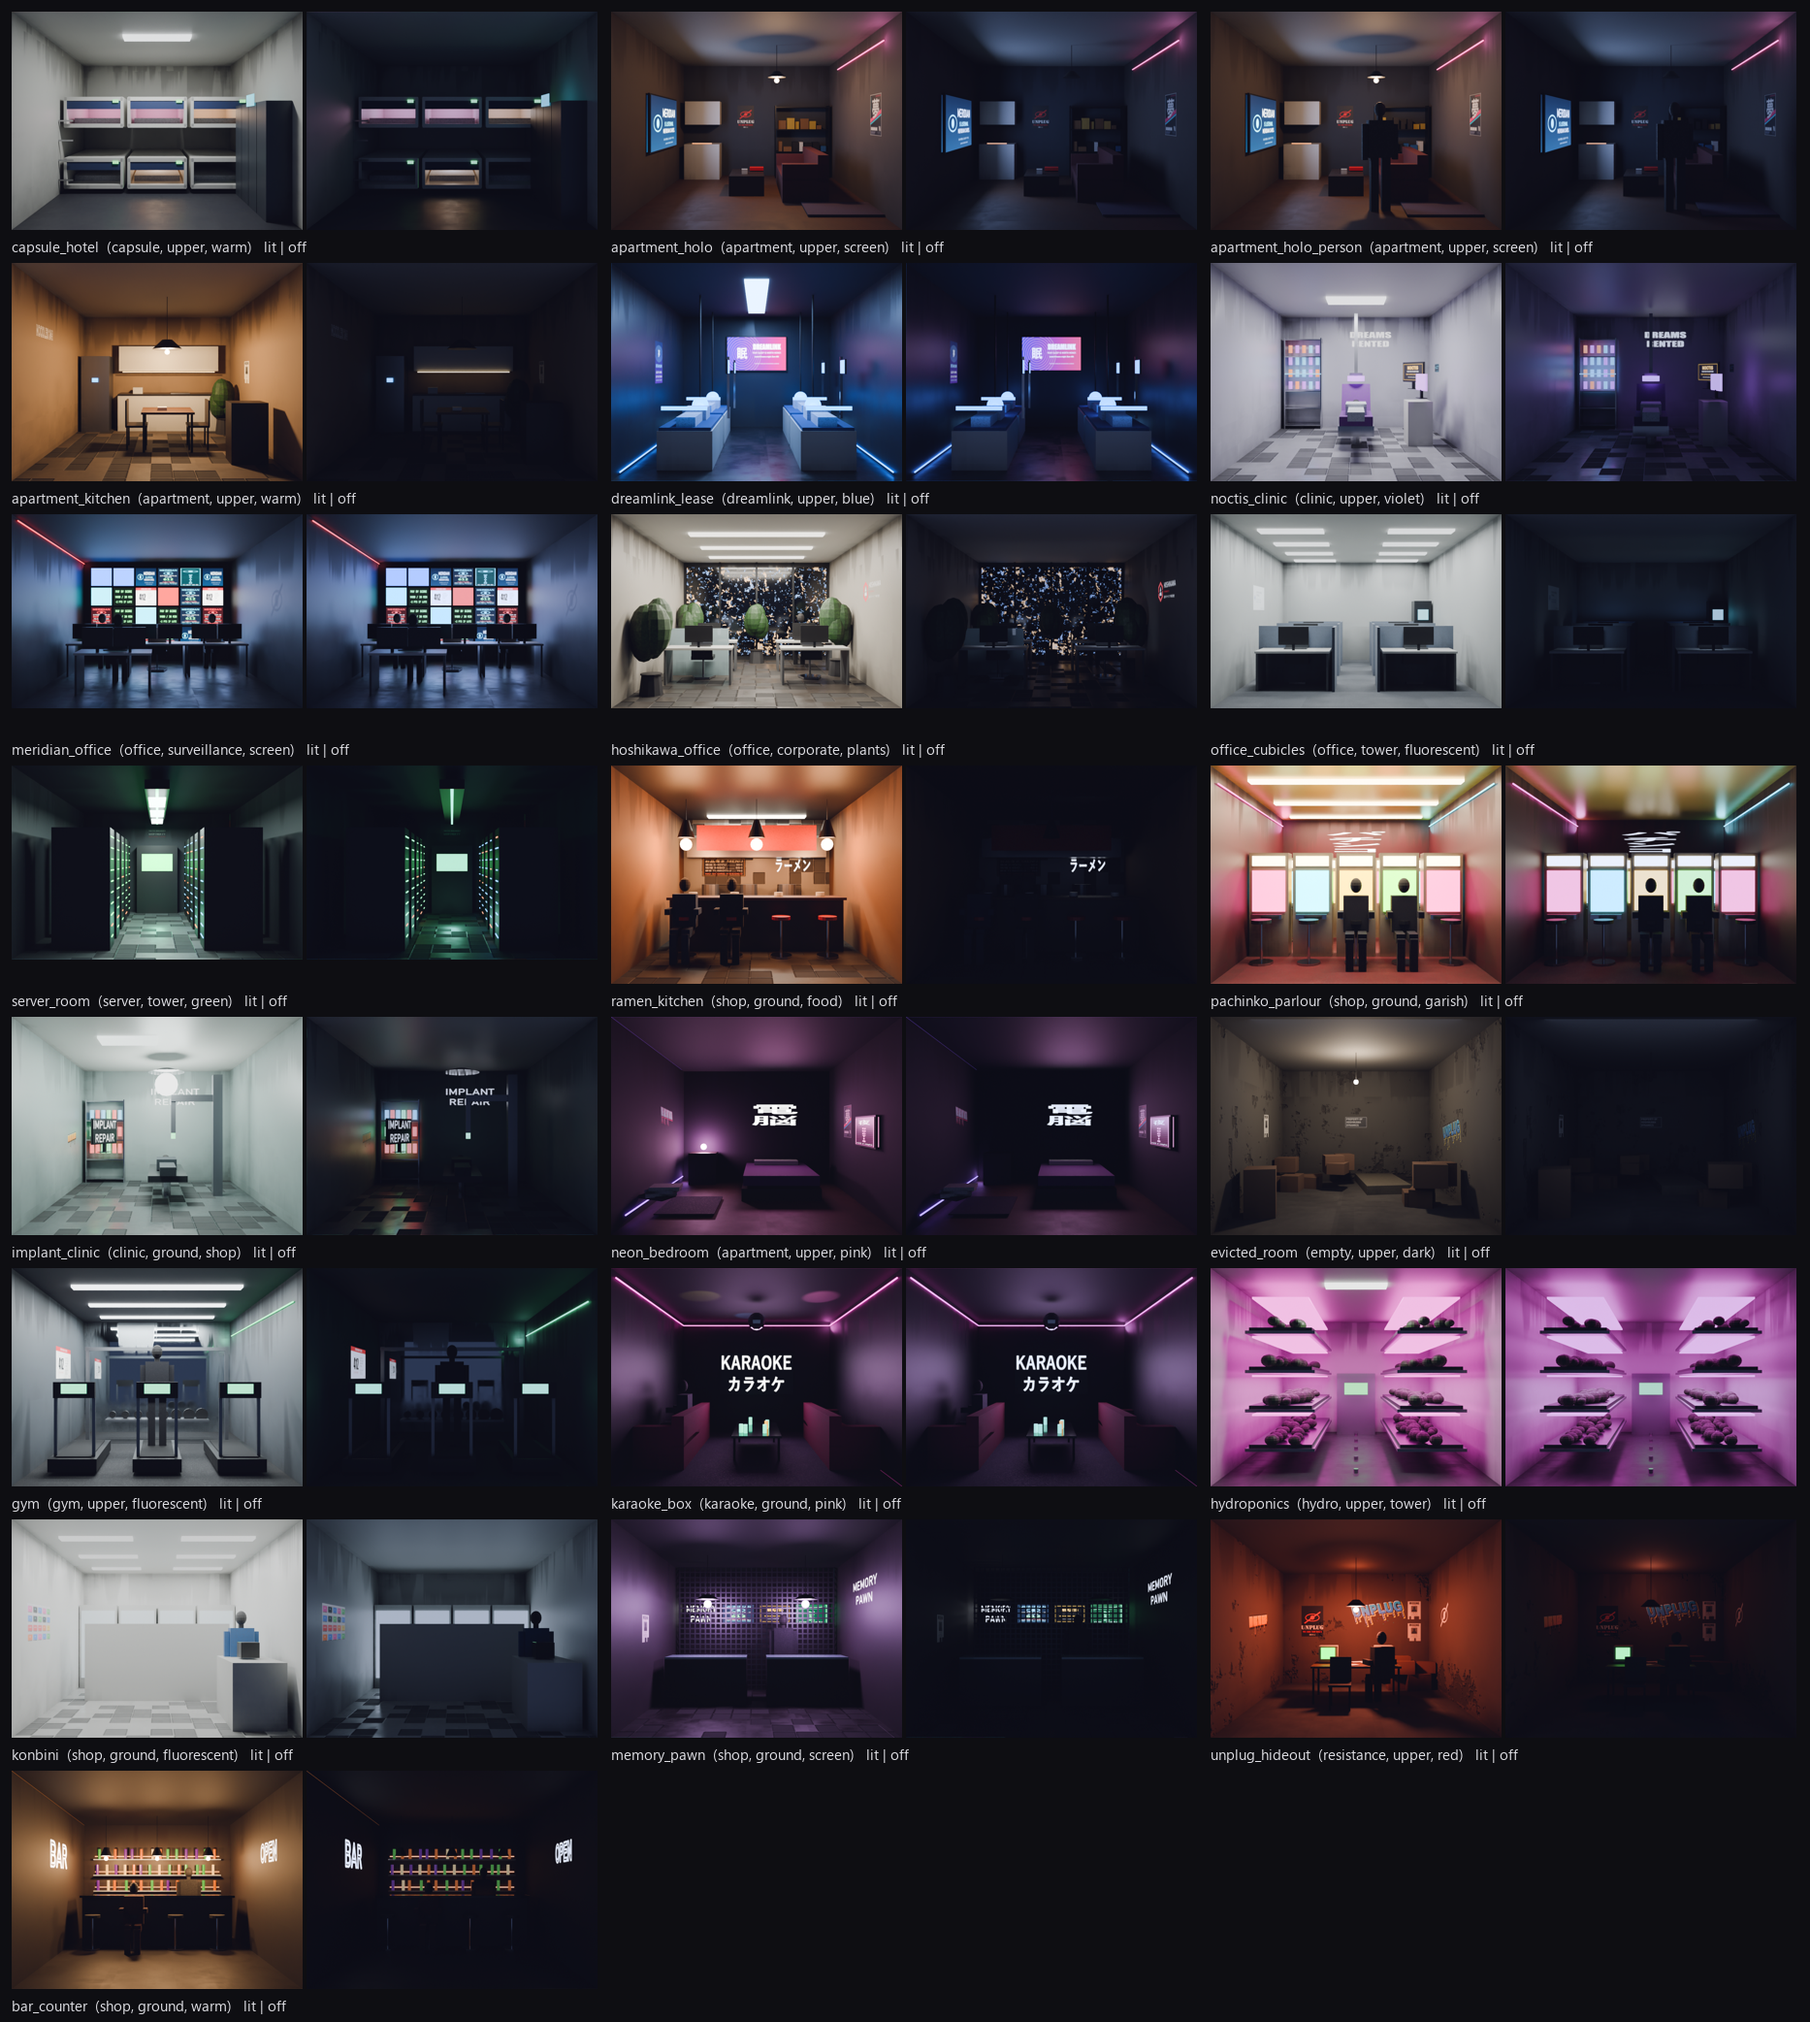
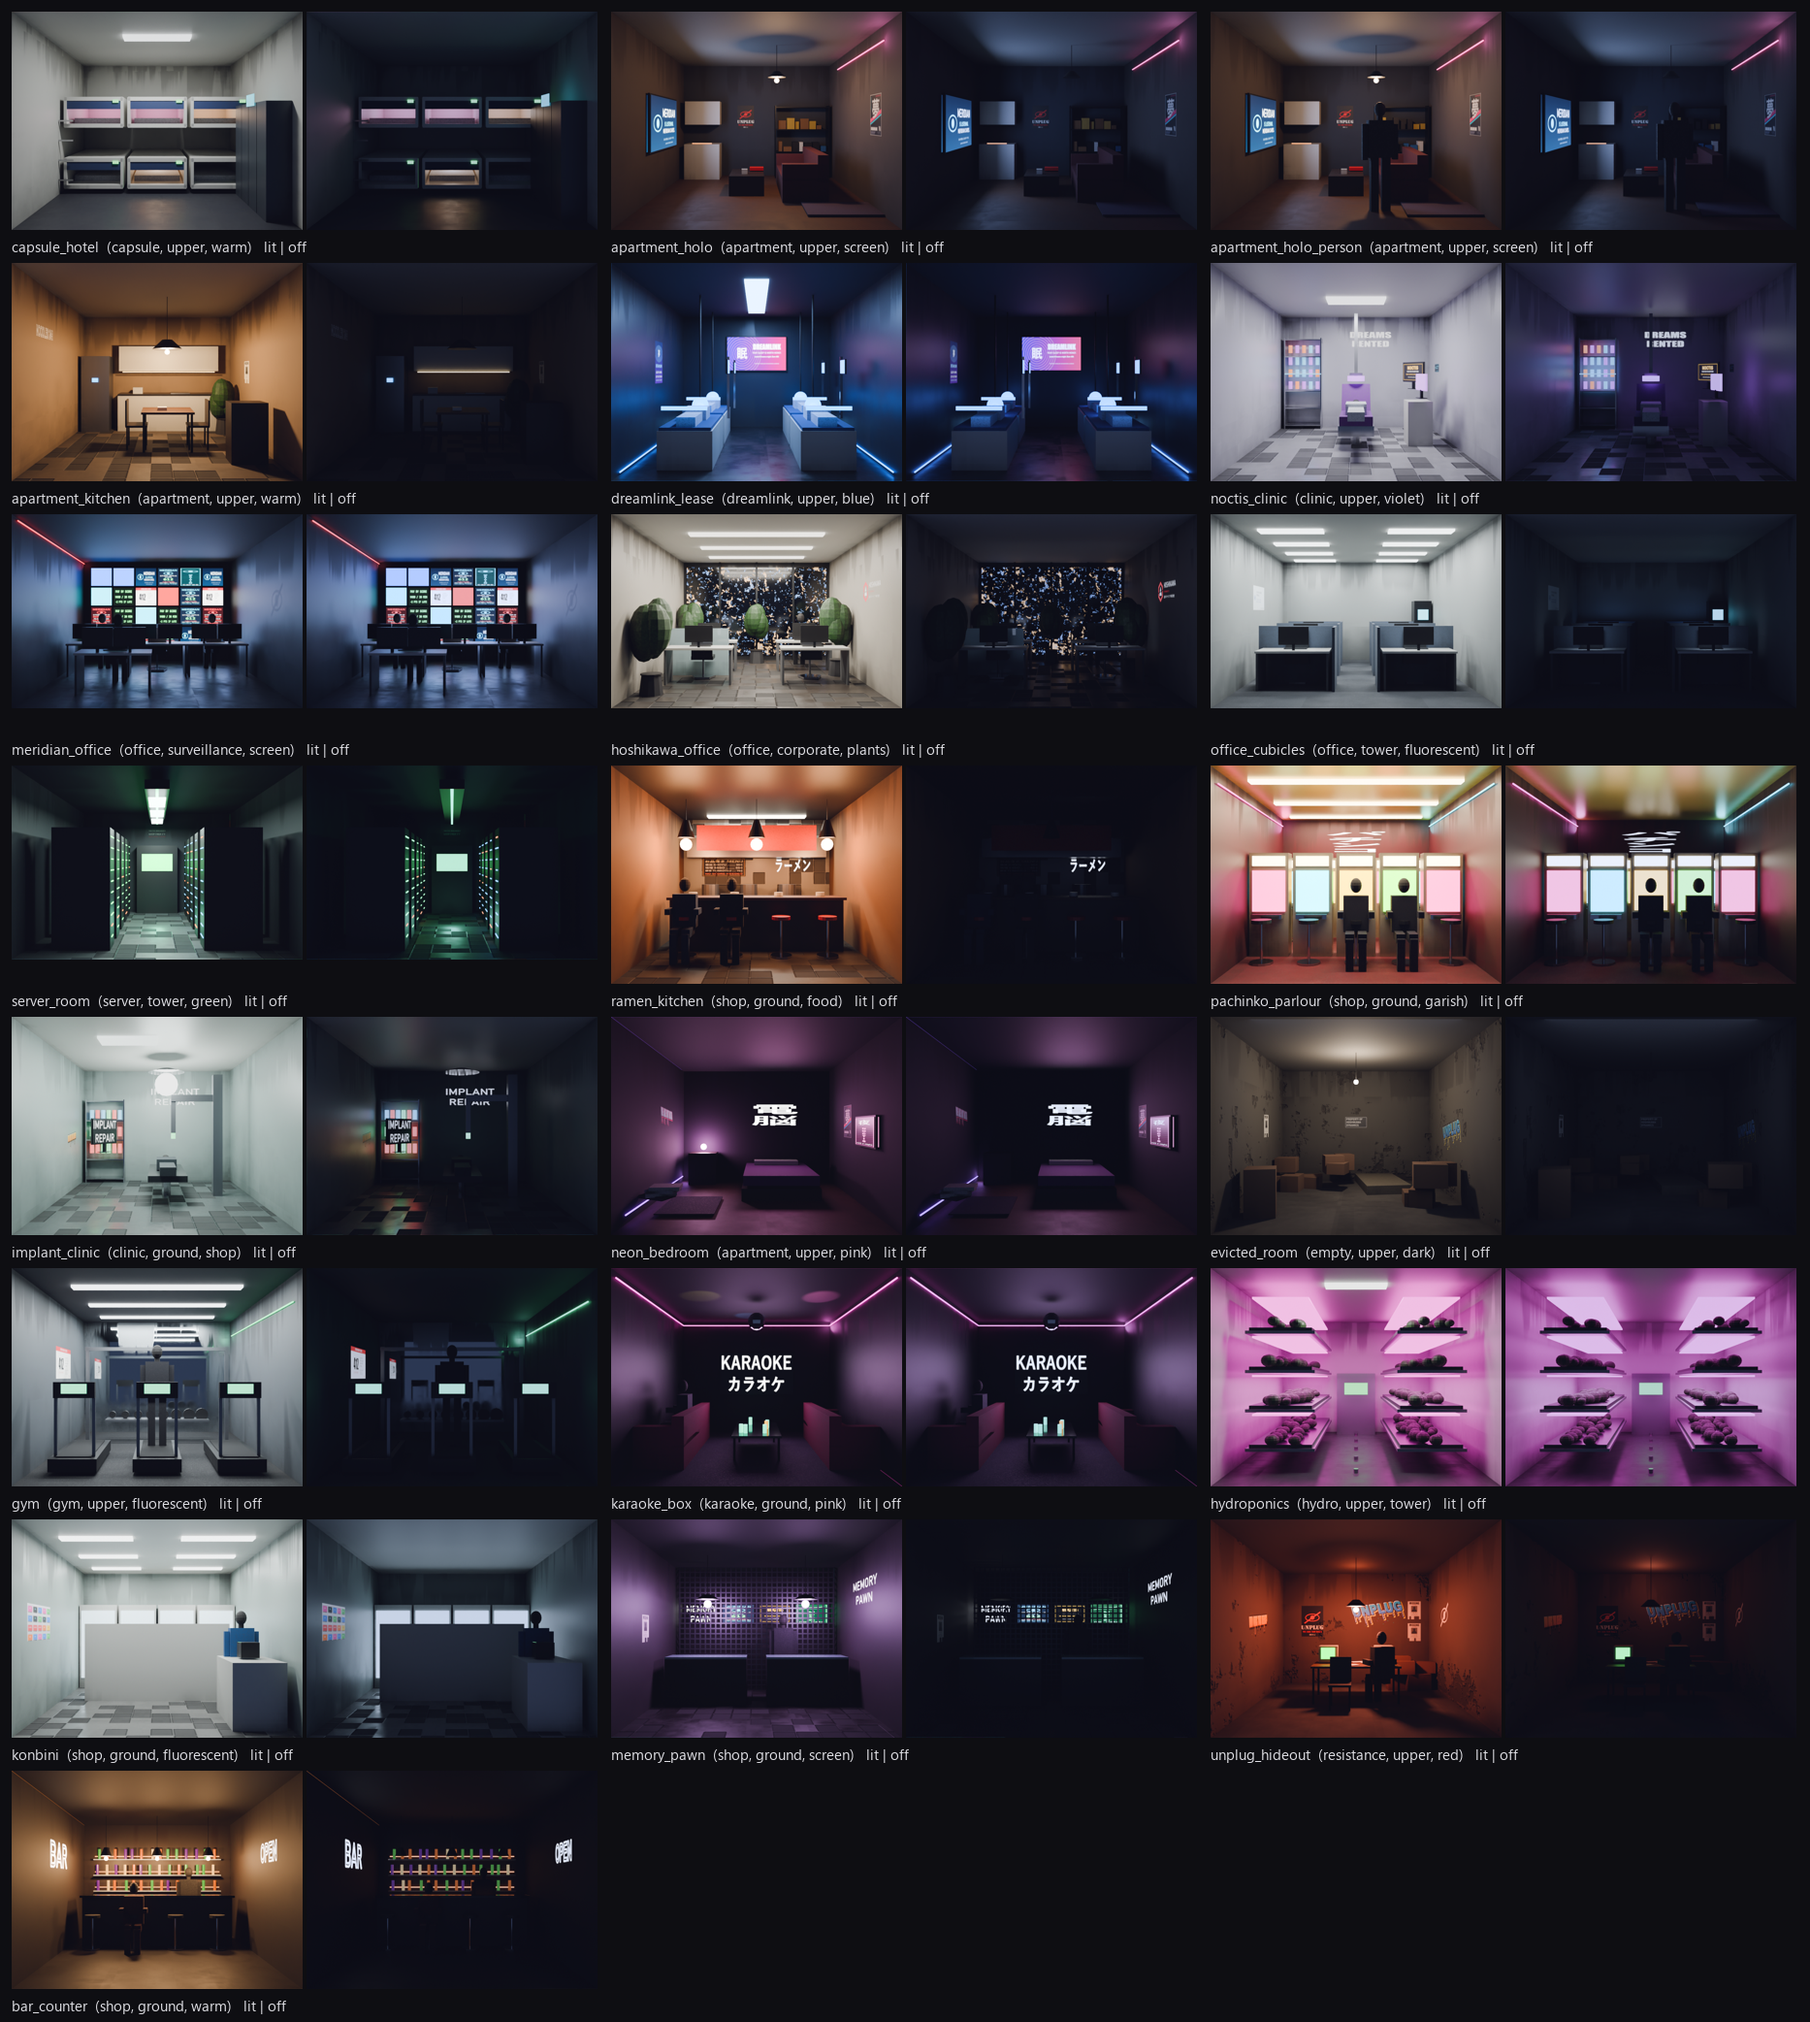
interiors: glass dirt only on plain glass, wider rooms behind panes, dimmer konbini / cubicles

Changed region(s): [[0.0, 0.7486, 0.1865, 0.8733], [0.1865, 0.7798, 0.3108, 0.8109]]

diff --git a/tools/interiors/rooms.py b/tools/interiors/rooms.py
@@ -537,7 +537,7 @@ def office_cubicles(r):
             r.desk_station((x, y, 0), rz=180, color=r.rng.choice([(0.8, 0.9, 1.0), (0.5, 0.7, 1.0)]), person=r.rng.random() < 0.2)
     for y in (1.2, 2.6, 4.0, 5.4):
         for x in (-1.2, 1.2):
-            r.lamp_panel((x, y, H - 0.02), (1.2, 0.3, 0.04), (0.9, 0.97, 1.0), 70)
+            r.lamp_panel((x, y, H - 0.02), (1.2, 0.3, 0.04), (0.9, 0.97, 1.0), 35)
     r.box((W / 2 - 0.3, D - 0.4, 0.9), (0.5, 0.6, 1.8), GUNMETAL)
     r.box((W / 2 - 0.3, D - 0.72, 1.4), (0.3, 0.02, 0.3), glow((0.4, 0.9, 1.0), 4.0))
     r.poster(STORY + "billboard_jobs.png", "left", 3.0, 1.8, 1.0, 0.55)
@@ -736,7 +736,7 @@ def hydroponics(r):
 
 @room("konbini", ["shop", "ground", "fluorescent"], D=5.0)
 def konbini(r):
-    r.shell(paint((0.85, 0.85, 0.83), 0.4), paint((0.7, 0.7, 0.68), 0.15, tiles=True), WHITE)
+    r.shell(paint((0.55, 0.6, 0.58), 0.4), paint((0.45, 0.45, 0.44), 0.15, tiles=True), WHITE)
     W, D, H = r.W, r.D, r.H
     goods = [paint(c, 0.4) for c in ((0.8, 0.1, 0.1), (0.1, 0.4, 0.8), (0.9, 0.7, 0.1), (0.2, 0.6, 0.2), (0.9, 0.9, 0.9), (0.95, 0.4, 0.1))]
     for x in (-0.7, 0.7):
@@ -753,7 +753,7 @@ def konbini(r):
     r.decal(DEC + "vending_products.png", (-W / 2 + 0.003, 1.2, 1.6), (1, 0, 0), (1.2, 0.6), emissive=0.5)
     for y in (1.0, 2.5, 4.0):
         for x in (-1.0, 1.0):
-            r.lamp_panel((x, y, H - 0.02), (1.2, 0.2, 0.04), (0.95, 1.0, 1.0), 80)
+            r.lamp_panel((x, y, H - 0.02), (1.2, 0.2, 0.04), (0.95, 1.0, 1.0), 28)
     if r.rng.random() < 0.8:
         r.person((1.5, 1.5, 0), rz=180, pose="stand", col=FABRIC((0.1, 0.3, 0.5)))
 

diff --git a/tools/interiors/interiors.py b/tools/interiors/interiors.py
@@ -203,7 +203,7 @@ def texture(names):
 
 # ------------------------------------------------------------------ pack / window maps / sheet / sync
 # per-room exposure trims after looking at the contact sheet (white rooms under fluorescents clip)
-ROOM_EXPOSURE = {"konbini": -0.7, "office_cubicles": -0.5, "capsule_hotel": -0.4, "noctis_clinic": -0.4, "implant_clinic": -0.4,
+ROOM_EXPOSURE = {"konbini": -0.2, "office_cubicles": -0.2, "capsule_hotel": -0.4, "noctis_clinic": -0.4, "implant_clinic": -0.4,
                  "hoshikawa_office": -0.3, "gym": -0.2, "hydroponics": -0.3}
 GRADE = {"contrast": 1.05, "saturation": 1.08, "lift": [0.004, 0.004, 0.008]}
 
